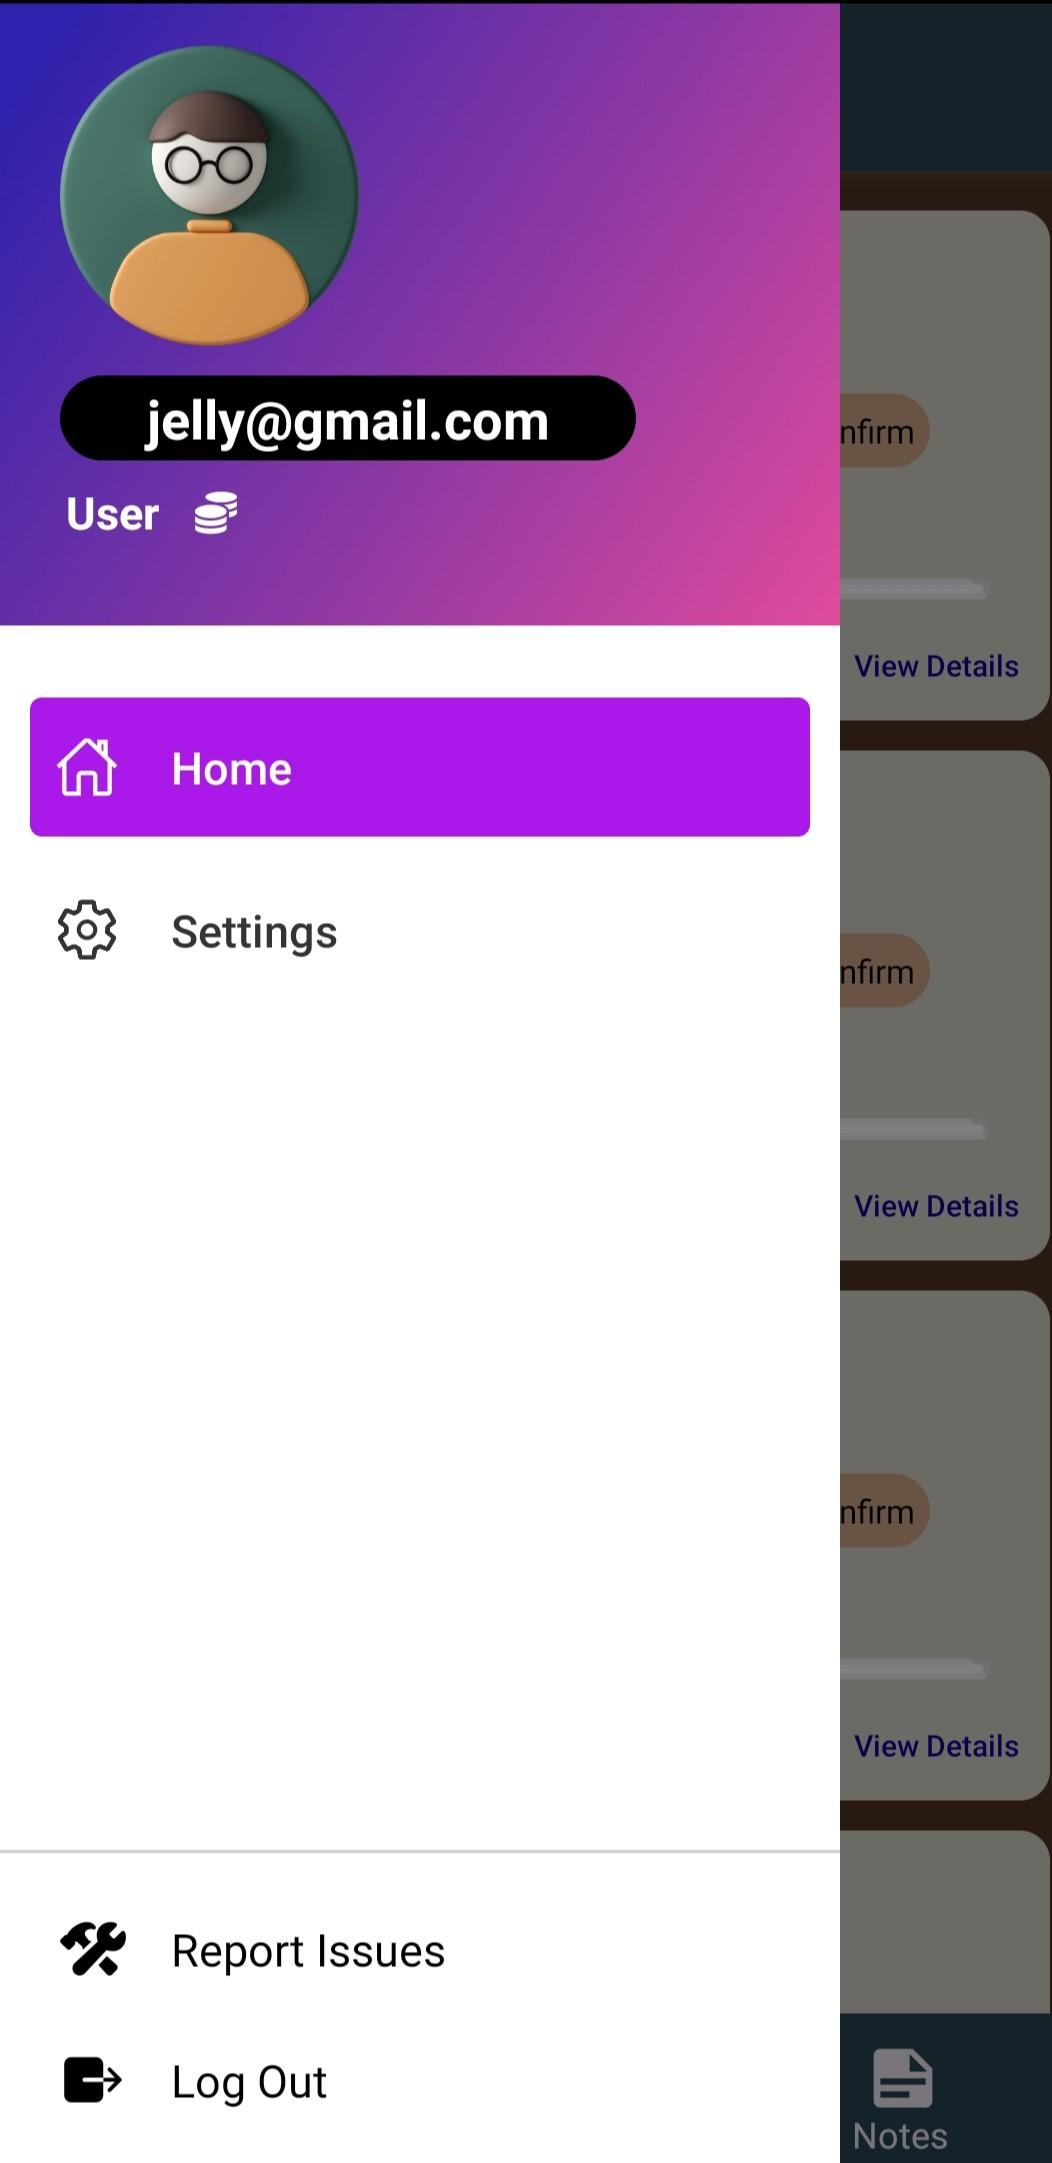
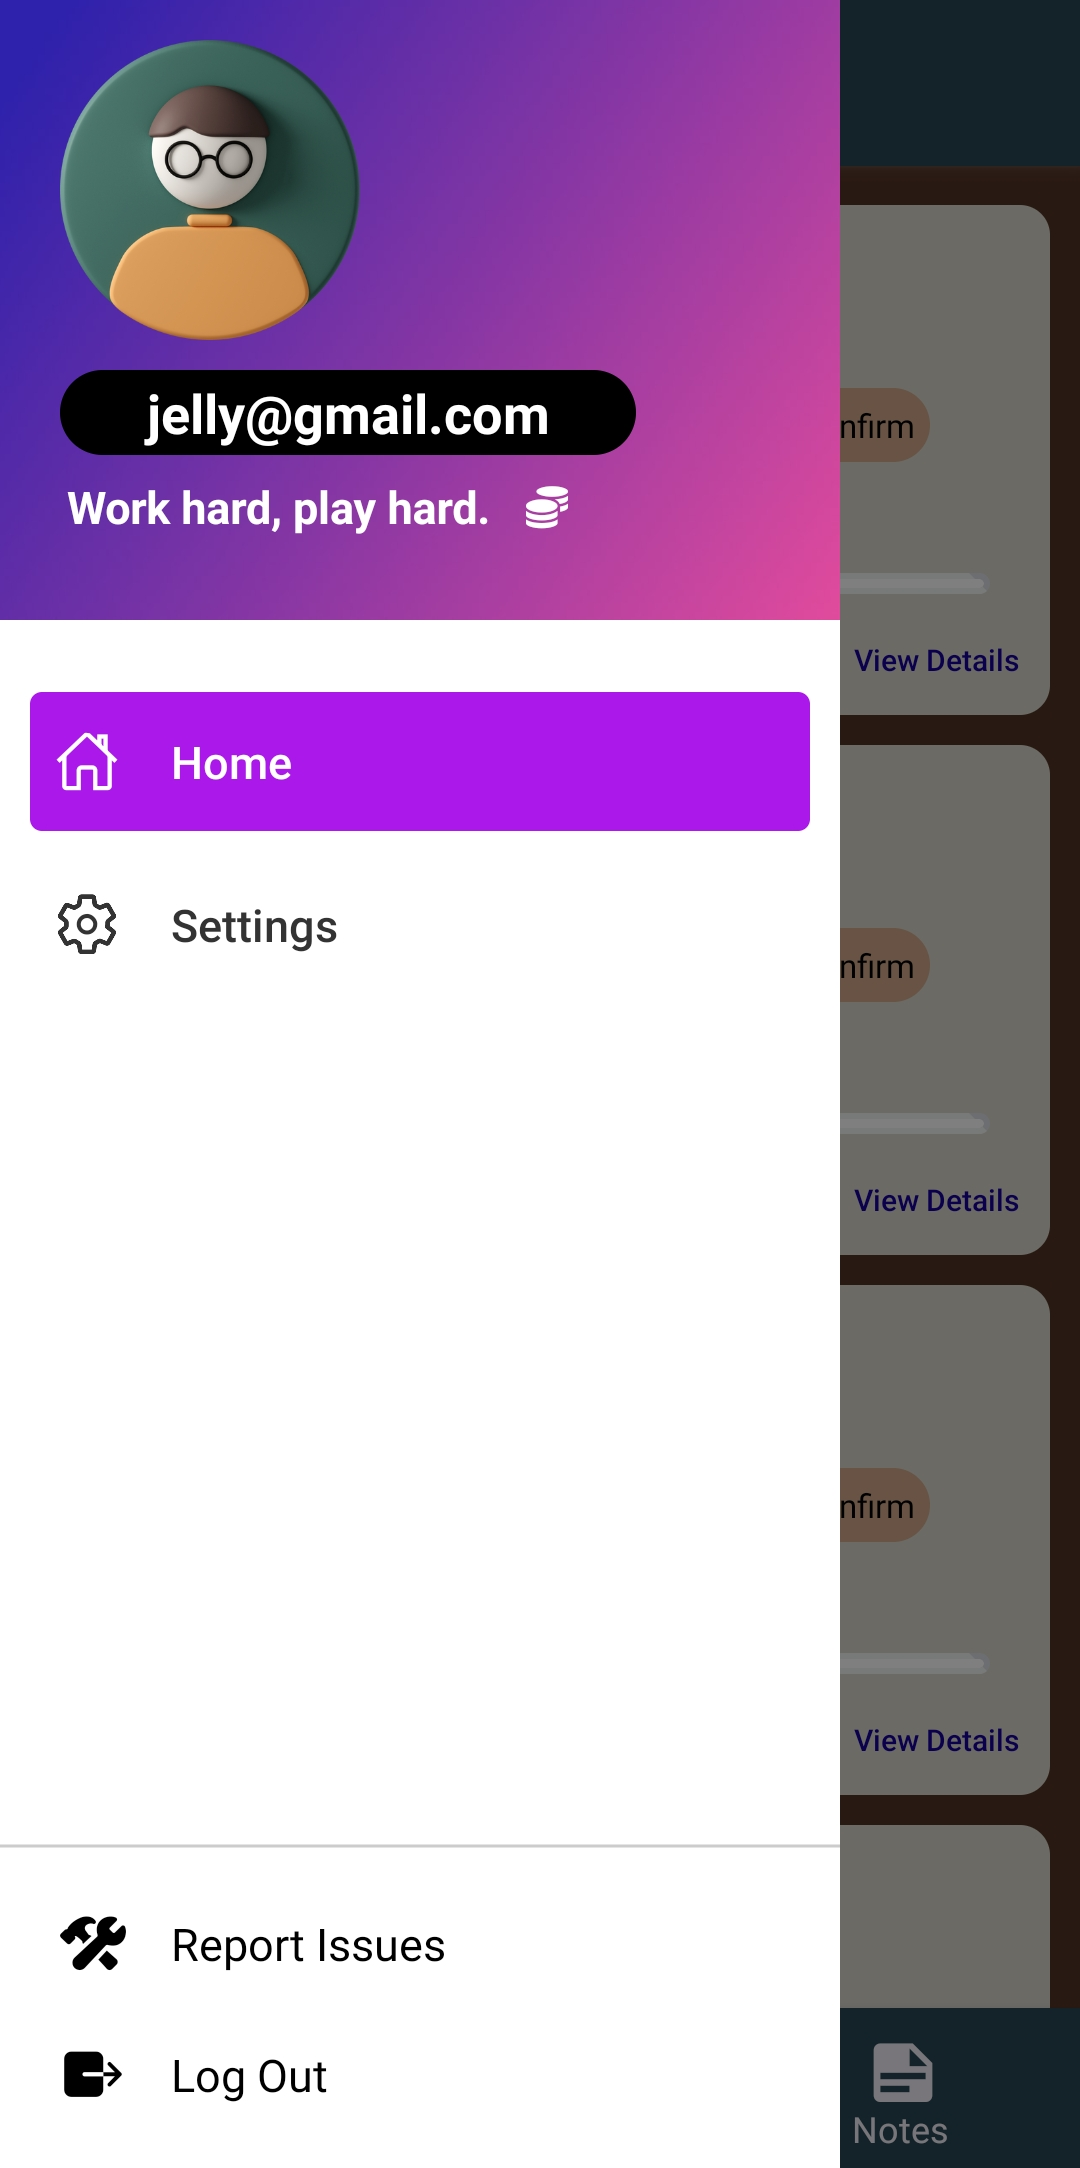
Edit README with new images

diff --git a/README.md b/README.md
@@ -2,9 +2,9 @@
 ### **An Orbital project by Cham Li Hui and Pwint Thiri Ko.**  
 [Github Repository](https://github.com/lihuicham/nus-orbital-project-2022)  
 
-[Google Drive for Milestone 2](https://drive.google.com/drive/folders/1Mq71KuNAYKe8AkgMO25qQXlOgMgQXA0N?usp=sharing) (for images, demo videos, project log poster and full video)  
+[Google Drive for Milestone 2](https://drive.google.com/drive/folders/1Mq71KuNAYKe8AkgMO25qQXlOgMgQXA0N?usp=sharing)  
 
-_Note: We recommend you to view our GitHub README for the latest update of the app. To view a collection of images and demo videos of the app, visit our Google Drive._
+_Note: We recommend you to view our GitHub README for the latest update of the app. To view a collection of images, demo videos, project log, poster and full video of the app, visit our Google Drive._
 
 ## Team Name 
 ### **Track My Day**  
@@ -23,9 +23,13 @@ Track My Day is a mobile app with a primary focus on tracking habits, such as ex
 
 ## User Stories & Experience 
 As a young adult who wants to transform into a better person, namely with good habits, I want a simple but aesthetically pleasing tracker that is able to assist me on that.  
+
 As an individual who wants to improve efficiency, I want a tracker that can show me my progress for the habits that I wish to pick up in a simplest and most straightforward way.  
+
 As a modern user of digital devices, I wish to see a simplistic and minimalistic design in productivity and self-improvement mobile apps.  
+
 As a student who is always on the go, I want an app that can allow me to take down quick notes or checklists, and viewing them should be easy.  
+
 As a user of productivity apps, I want to have an awesome user experience on such apps. Along with functional user interface and aesthetically pleasing design, these features will greatly motivate me to stick with my goals and habits.  
 
 
@@ -84,6 +88,7 @@ The user enters their email in the Forgot Password page. This page has been link
 
 ### Profile Page 
 The app will also collect the user’s personal details and goals which will be used in the Analysis page. The user can set their username, birthday and enter a favorite quote here. They can also set goals such as amount of sleep per night, amount of water drunk per day and amount of time spent studying or exercising daily.  
+
 The user will only encounter this page once immediately after registration. After registration, the user will be guided to the Profile page where they fill in these details. Upon pressing the button to register, a pop up will appear to confirm that the user has registered their details. The user will be added into the Firestore database with these details recorded. Afterwards, if the user wants to make any changes, they can do so in ‘Settings’ where a separate page is created for changing these details. Any updates will also be recorded in Firestore.  
 
 **Current progress:** Complete.  
@@ -103,14 +108,18 @@ Users can delete their account in the app. There will be a delete account button
 
 ### Tiles (Home Page)
 The home page serves the main function of this app - tracking habits. The trackers include water tracker, sleep tracker, read tracker etc. We redesigned the home page in Milestone 2. We call the home page - “Tiles”, named according to the appearance and layout of the trackers in the home page.  
+
 The trackers can have different units and maximum values e.g. 24 hours, 10 liters, 50 kilograms and so on. This allows the trackers to be flexible in tracking all sorts of habits. Other than default trackers, users can customize their own trackers too.  
 We use a slider to increase the value of each tracker instead of a dropdown menu or a picker. The slider is included for the user to adjust the value. Each tracker has its own unit that is suitable for the habit that the tracker is tracking. This feature greatly enhances the user experience.  
+
 There will also be a “View Details” button at the bottom right corner of each tile (habit tracker) and clicking it will navigate to the view details page of each tracker.  
 When the user clicks the “Confirm” button, the value of each tracker will be recorded or “written” into our backend database (Firebase Firestore). More details about write, read and update in the following section - Firebase Firestore. 
 
 _Note:  
 **From The Ring to Tiles** - We understand that the changes in the layout of the home page is the biggest change in our app. Previously (in Liftoff and Milestone 1), we decided that the trackers should be designed as different proportions of a ring, and hence our home page will only contain “The Ring”.  
+
 However, we tested the ring design, consulted the tutor from the UI/UX workshop and discussed between us, we decided that the ring design was limiting the number of habit trackers we can have on The Ring (home page). Since it is just a hollow circle shape (literally, a ring shape), it can only be divided into at most 5 sections if the user wishes to have an aesthetically pleasing UI. We experimented with more trackers, which simulated the real-life use of the app. However, The Ring became really messy and packed because each tracker shared a small chunk of the circle ring. This greatly impacted the UI and UX of the app, and limited the app’s habit tracking ability and deviated from the project’s purpose.  
+
 Hence, we took a step back and redesigned the habit trackers and the home page. Going forward, we will be implementing the habit trackers as “tiles” in the home page._  
 
 **Current progress:** Basic habits - water, sleep, read, exercise and etc have been added to Tiles. All components - slider confirm button and view details button are completed. Integrated frontend (confirm button) with backend database (Firebase Firestore). Completed all working features and UI design.  
@@ -121,6 +130,7 @@ Hence, we took a step back and redesigned the habit trackers and the home page. 
 
 ### Notes & To-Do List 
 Notes & to-do lists are meant to satisfy the quick note taking needs of the users. Both pages support simple typing, and the to-do list supports an additional checkbox feature.  
+
 As both pages are meant for quick and simple note taking, we do not intend to add more features such as bolded words, add a photo or link function. We wish to maintain the simplicity of the features and minimalistic design of the app.  
 
 **Current Progress:** Normal note & todo list functions done. With basic UI design.
@@ -128,22 +138,23 @@ As both pages are meant for quick and simple note taking, we do not intend to ad
 #### Notes
 For notes, the user can add and delete notes. All notes will be visible in one screen and users can scroll to view their notes. Users can swipe to delete the notes.  
 
---> Watch a demo video of To-Do List: [Notes 📺]()  
+--> Watch a demo video of Notes: [Notes 📺]()  
 
 ![Notes](./readme_assets/Notes.jpg)  
 
+<br>
 
 #### To-Do List
 The todo list has a tap to delete task function, and to view different todo lists, users only have to swipe (like Tinder) to view the next or previous todo lists.  
 
---> Watch a demo video of Notes: [To-Do List 📺]()  
+--> Watch a demo video of To-Do List: [To-Do List 📺]()  
 
 ![To-Do](./readme_assets/Todo.jpg)  
 
 ### Drawer 
 Drawer can be viewed when the user swipe right on any of the screens or pages. The drawer consists of three sections - user details, navigation tabs, and footer. 
 
-1. **User details:** It shows the user’s profile image and status. 
+1. **User details:** It shows the user’s profile image and favourite quote. 
 2. **Navigation tabs:** Home and Settings. 
 3. **Footer:** Report Issues (contact developers via email) and Log Out. 
 
@@ -225,6 +236,7 @@ We consider that millennials like to share their daily moments on social media, 
 - When a new user registers their personal details, a document will be added to the users collection in Firebase with these details.
 - The document ID for each new document is set as the currently logged in user’s ID in order to read, delete or update the user’s information which requires the document ID of the document the operation would be performed on. 
 - User ID is also unique, meaning that each user will only have one document created for them.  
+
 ![Firestore User](./readme_assets/FirestoreUser.png)
 
 
@@ -297,7 +309,7 @@ To be completed in Milestone 3
 ### Project Log
 Project Log provides description on the tasks distribution of Cham Li Hui and Pwint Thiri Ko and their respective time spent on developing the app.  
 
-[Project Log]()
+[Read our Project Log]()
 
 
 ## Tech Stack for Milestone 2 
